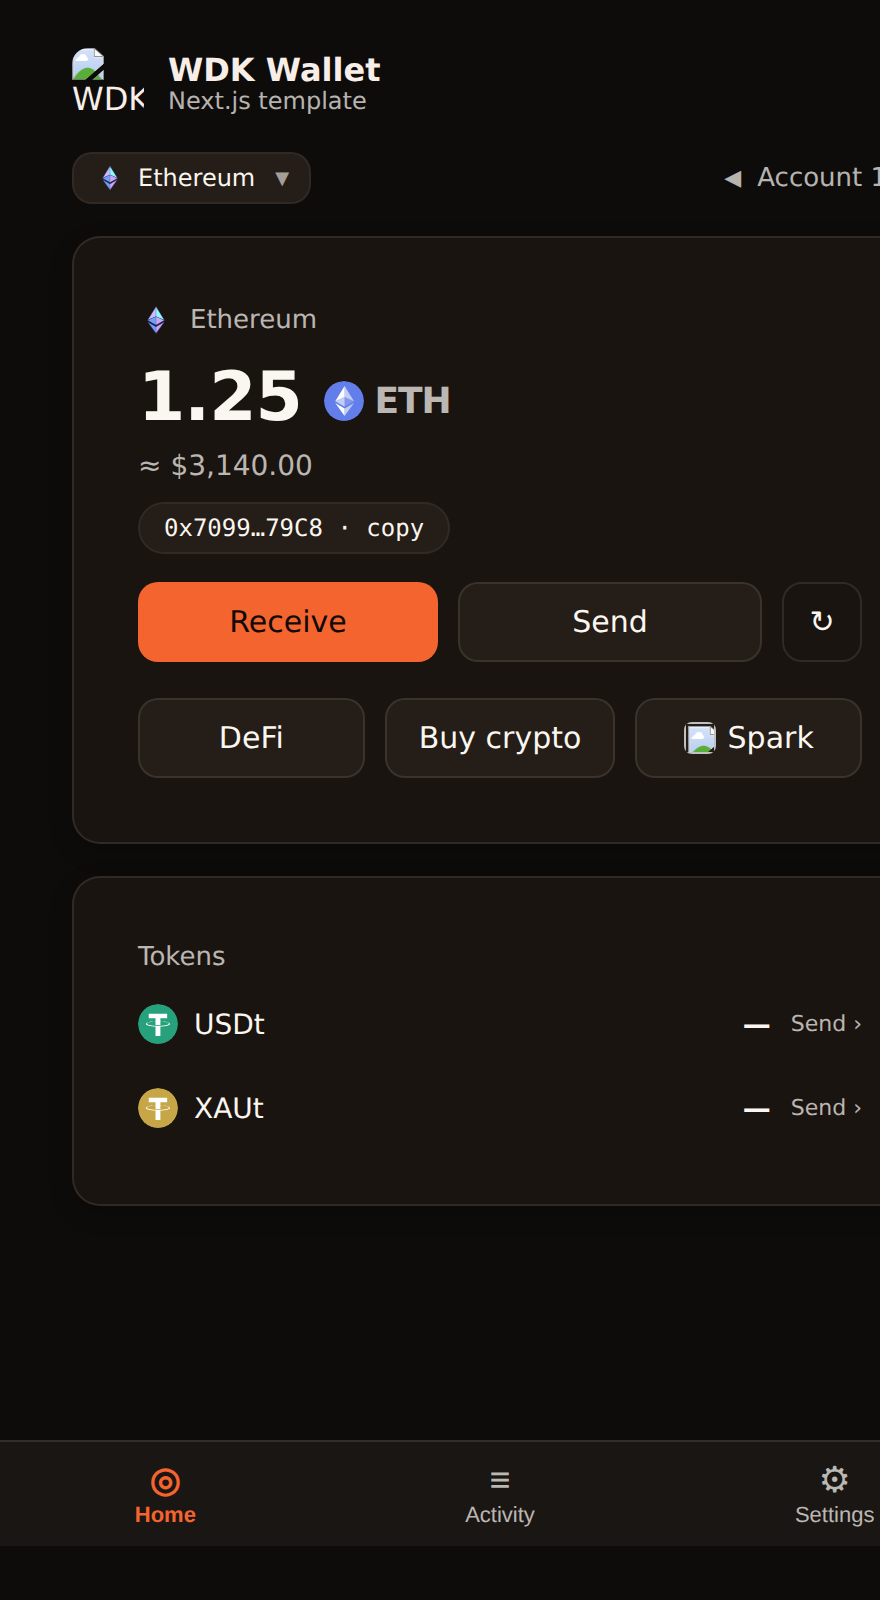
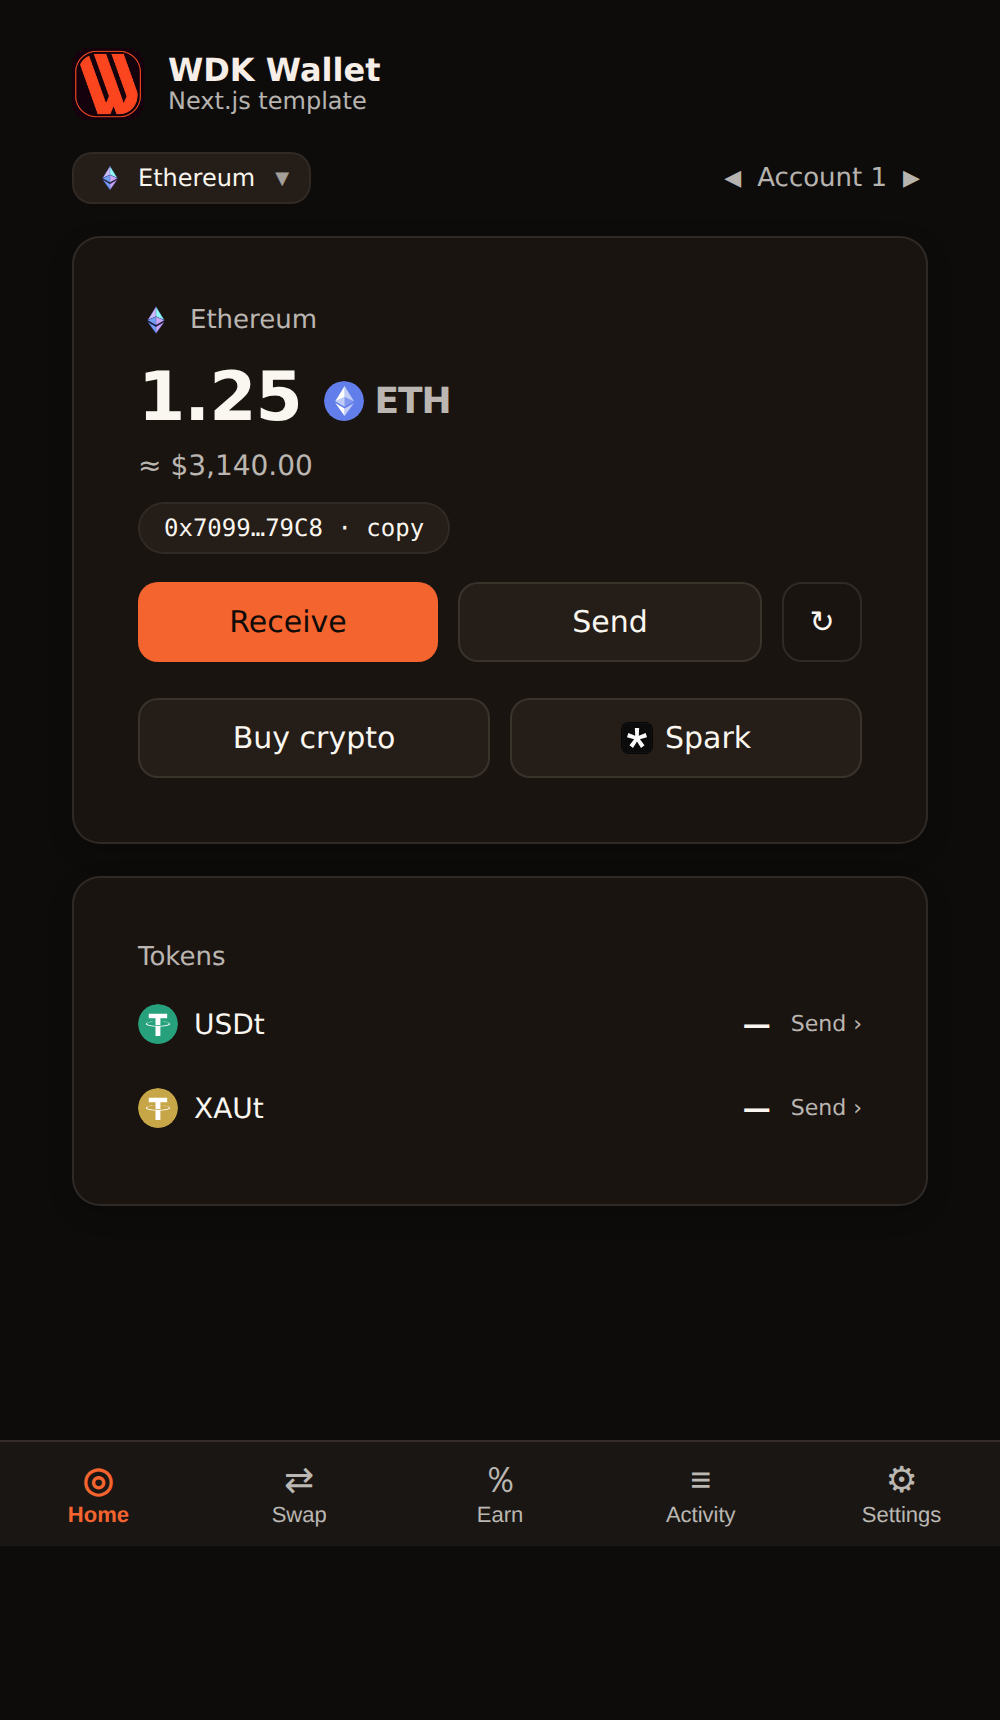
feat(template): dedicated Swap + Earn screens — retire the DeFi modal
Split the cramped DeFi dialog into first-class tab destinations on the
pro-wallet shell:

- defi-panels.tsx — extract the Aave-lend / Velora-swap / USDT0-bridge /
  gasless forms as shared, worklet-driven panels (one set of protocol
  wiring, no duplication across screens).
- swap-screen.tsx — Velora best-route swap on a shared Screen layout, with
  the gasless toggle when a bundler is configured; non-EVM chains get a
  clear note instead of a dead form.
- earn-screen.tsx — Lend (Aave V3) / Bridge (USDT0) / Gasless sub-tabs.
- screen.tsx — shared full-height tab-destination layout (title + subtitle).
- WalletShell — Home · Swap · Earn · Activity · Settings (5-tab IA); the
  Dashboard drops its DeFi launcher (now top-level), keeping Buy + Spark.
- Remove defi-dialog.tsx (retired).

Harness: replace the defi entry with swap/earn entries that mount the real
WalletShell at each tab; serve the app's public/ assets so the brand mark
and Spark logo render. Regenerate media/screenshots (home-shell, swap-screen,
earn-screen, buy-dialog); drop defi-dialog.png. Declare vite +
@user/plugin-react as apps/web devDeps so screenshots:build is
self-contained in a fresh checkout. README + ROADMAP updated.

Typecheck clean; 23 app specs pass.

Claude-Session: https://claude.ai/code/session_014BrvPNNzD1sk15DtxQzuih

diff --git a/apps/web/src/components/earn-screen.tsx b/apps/web/src/components/earn-screen.tsx
@@ -1,0 +1,53 @@
+'use client'
+
+/**
+ * EarnScreen — a dedicated "Earn" destination grouping the yield / portability
+ * flows that used to be crammed into the DeFi modal: Lend (Aave V3), Bridge
+ * (USDT0, Ethereum ⇄ Arbitrum), and the gasless smart account (ERC-4337). A
+ * light sub-tab strip switches between them; the gasless toggle rides above the
+ * Lend/Bridge forms when a bundler is configured. EVM-only.
+ */
+
+import { useState } from 'react'
+import { Button } from '@wdk-starter/wdk-ui'
+import { useWallet } from '@/wallet/wallet-provider'
+import { getChain } from '@/wallet/chains'
+import { Screen } from './screen'
+import { Lending, Bridge, Gasless, GaslessToggle, useGaslessAvailable, defiSupported, note } from './defi-panels'
+
+type SubTab = 'lend' | 'bridge' | 'gasless'
+const SUBTABS: readonly { id: SubTab, label: string }[] = [
+  { id: 'lend', label: 'Lend' },
+  { id: 'bridge', label: 'Bridge' },
+  { id: 'gasless', label: 'Gasless' }
+]
+
+export function EarnScreen (): React.JSX.Element {
+  const { chainId, accountIndex } = useWallet()
+  const gaslessAvailable = useGaslessAvailable()
+  const [gasless, setGasless] = useState(false)
+  const [sub, setSub] = useState<SubTab>('lend')
+  const supported = defiSupported(chainId)
+
+  if (!supported) {
+    return (
+      <Screen title="Earn" subtitle="Lend, bridge, and gasless smart-account flows.">
+        <p style={note}>Earn runs on EVM chains (Ethereum, Polygon, Arbitrum). The active network is {getChain(chainId).name} — switch to an EVM chain.</p>
+      </Screen>
+    )
+  }
+
+  return (
+    <Screen title="Earn" subtitle="Aave V3 lending, the USDT0 bridge, and the gasless smart account — all over the worklet.">
+      <div style={{ display: 'flex', gap: 6 }}>
+        {SUBTABS.map((t) => (
+          <Button key={t.id} size="sm" variant={sub === t.id ? 'primary' : 'secondary'} onClick={() => setSub(t.id)} style={{ flex: 1 }}>{t.label}</Button>
+        ))}
+      </div>
+      {gaslessAvailable && sub !== 'gasless' && <GaslessToggle gasless={gasless} onChange={setGasless} />}
+      {sub === 'lend' && <Lending chainId={chainId} accountIndex={accountIndex} gasless={gasless} />}
+      {sub === 'bridge' && <Bridge chainId={chainId} accountIndex={accountIndex} gasless={gasless} />}
+      {sub === 'gasless' && <Gasless chainId={chainId} accountIndex={accountIndex} />}
+    </Screen>
+  )
+}

diff --git a/apps/web/src/components/wallet-shell.tsx b/apps/web/src/components/wallet-shell.tsx
@@ -4,9 +4,10 @@
  * WalletShell — the navigable pro-wallet IA (PRD Phase 1 cornerstone).
  *
  * Replaces the single-page "modal soup" with a real tab shell: Home (balance +
- * tokens + action cluster), Activity (history), and Settings (appearance,
- * security, account). The heavy flows (receive/send/buy/DeFi/spark) stay as the
- * Home action launchers; Activity and Settings become first-class destinations.
+ * tokens + action cluster), Swap (Velora), Earn (Aave lend / USDT0 bridge /
+ * gasless), Activity (history), and Settings (appearance, security, account).
+ * The dedicated Swap/Earn destinations retire the old cramped DeFi modal; the
+ * remaining heavy flows (receive/send/buy/spark) stay as Home action launchers.
  * Built on the shared wdk-ui TabBar so the extension popup can adopt the same IA.
  */
 
@@ -15,19 +16,24 @@ import { Button, Card, TabBar, type TabItem } from '@wdk-starter/wdk-ui'
 import { useWallet } from '@/wallet/wallet-provider'
 import { Dashboard } from './dashboard'
 import { Activity } from './activity'
+import { Screen } from './screen'
+import { SwapScreen } from './swap-screen'
+import { EarnScreen } from './earn-screen'
 import { AppearanceDialog } from './appearance-dialog'
 import { useAppearance } from './appearance-provider'
 
-type TabId = 'home' | 'activity' | 'settings'
+type TabId = 'home' | 'swap' | 'earn' | 'activity' | 'settings'
 
 const TABS: readonly TabItem[] = [
   { id: 'home', label: 'Home', icon: '◎' },
+  { id: 'swap', label: 'Swap', icon: '⇄' },
+  { id: 'earn', label: 'Earn', icon: '％' },
   { id: 'activity', label: 'Activity', icon: '≡' },
-  { id: 'settings', label: 'Settings', icon: '⚙' },
+  { id: 'settings', label: 'Settings', icon: '⚙' }
 ]
 
-export function WalletShell (): React.JSX.Element {
-  const [tab, setTab] = useState<TabId>('home')
+export function WalletShell ({ initialTab = 'home' }: { initialTab?: TabId } = {}): React.JSX.Element {
+  const [tab, setTab] = useState<TabId>(initialTab)
   const { open: appearanceOpen } = useAppearance()
 
   return (
@@ -35,7 +41,9 @@ export function WalletShell (): React.JSX.Element {
       <div style={{ flex: 1, display: 'flex', justifyContent: 'center', overflowY: 'auto' }}>
         <div style={{ width: '100%', maxWidth: 460 }}>
           {tab === 'home' && <Dashboard />}
-          {tab === 'activity' && <TabPanel title="Activity"><Activity /></TabPanel>}
+          {tab === 'swap' && <SwapScreen />}
+          {tab === 'earn' && <EarnScreen />}
+          {tab === 'activity' && <Screen title="Activity"><Activity /></Screen>}
           {tab === 'settings' && <SettingsTab />}
         </div>
       </div>
@@ -45,20 +53,11 @@ export function WalletShell (): React.JSX.Element {
   )
 }
 
-function TabPanel ({ title, children }: { title: string, children: React.ReactNode }): React.JSX.Element {
-  return (
-    <main style={{ display: 'flex', flexDirection: 'column', padding: '24px 16px', gap: 16 }}>
-      <h1 style={{ fontSize: 20, fontWeight: 600, margin: 0 }}>{title}</h1>
-      {children}
-    </main>
-  )
-}
-
 function SettingsTab (): React.JSX.Element {
   const { address, accountIndex, lock } = useWallet()
   const { setOpen: setAppearanceOpen } = useAppearance()
   return (
-    <TabPanel title="Settings">
+    <Screen title="Settings">
       <Card padding="lg" variant="elevated" style={{ display: 'flex', flexDirection: 'column', gap: 12 }}>
         <Row label="Account" value={`Account ${accountIndex + 1}`} />
         {address && <Row label="Address" value={`${address.slice(0, 6)}…${address.slice(-4)}`} mono />}
@@ -68,7 +67,7 @@ function SettingsTab (): React.JSX.Element {
       <p style={{ textAlign: 'center', fontSize: 12, color: 'var(--text-secondary, #b3a79f)' }}>
         Self-custodial · keys never leave the worklet · built on Tether WDK
       </p>
-    </TabPanel>
+    </Screen>
   )
 }
 

diff --git a/apps/web/src/components/swap-screen.tsx b/apps/web/src/components/swap-screen.tsx
@@ -1,0 +1,35 @@
+'use client'
+
+/**
+ * SwapScreen — a dedicated, full-height Swap destination (Velora best-route DEX
+ * aggregation) in the tab shell, replacing the cramped DeFi modal's swap tab.
+ * Pulls the active chain + account from the wallet and offers the gasless smart
+ * account when the ERC-4337 bundler is configured. EVM-only — non-EVM /
+ * unsupported chains get a clear note instead of a dead form.
+ */
+
+import { useState } from 'react'
+import { useWallet } from '@/wallet/wallet-provider'
+import { getChain } from '@/wallet/chains'
+import { Screen } from './screen'
+import { Swap, GaslessToggle, useGaslessAvailable, defiSupported, note } from './defi-panels'
+
+export function SwapScreen (): React.JSX.Element {
+  const { chainId, accountIndex } = useWallet()
+  const gaslessAvailable = useGaslessAvailable()
+  const [gasless, setGasless] = useState(false)
+  const supported = defiSupported(chainId)
+
+  return (
+    <Screen title="Swap" subtitle="Swap tokens via Velora — best-route DEX aggregation, executed inside the worklet.">
+      {!supported
+        ? <p style={note}>Swaps run on EVM chains (Ethereum, Polygon, Arbitrum). The active network is {getChain(chainId).name} — switch to an EVM chain to swap.</p>
+        : (
+          <>
+            {gaslessAvailable && <GaslessToggle gasless={gasless} onChange={setGasless} />}
+            <Swap chainId={chainId} accountIndex={accountIndex} gasless={gasless} />
+          </>
+        )}
+    </Screen>
+  )
+}

diff --git a/apps/web/src/components/screen.tsx b/apps/web/src/components/screen.tsx
@@ -1,0 +1,19 @@
+'use client'
+
+/**
+ * Screen — the shared full-height layout for a tab destination in the wallet
+ * shell (title + optional subtitle + body). Swap / Earn / Activity / Settings
+ * all sit on it so the pro-wallet IA reads consistently. Pure presentation.
+ */
+
+export function Screen ({ title, subtitle, children }: { title: string, subtitle?: string, children: React.ReactNode }): React.JSX.Element {
+  return (
+    <main style={{ display: 'flex', flexDirection: 'column', padding: '24px 16px', gap: 16 }}>
+      <div>
+        <h1 style={{ fontSize: 20, fontWeight: 600, margin: 0 }}>{title}</h1>
+        {subtitle && <p style={{ margin: '6px 0 0', fontSize: 13, color: 'var(--text-secondary, #b3a79f)' }}>{subtitle}</p>}
+      </div>
+      {children}
+    </main>
+  )
+}

diff --git a/apps/web/src/components/dashboard.tsx b/apps/web/src/components/dashboard.tsx
@@ -9,7 +9,6 @@ import { BrandHeader } from './brand-header'
 import { ReceiveDialog } from './receive-dialog'
 import { SendDialog } from './send-dialog'
 import { TokenList } from './token-list'
-import { DefiDialog } from './defi-dialog'
 import { BuyDialog } from './buy-dialog'
 import { SparkDialog } from './spark-dialog'
 
@@ -24,7 +23,7 @@ export function Dashboard () {
     chainId, setChainId, accountIndex, setAccountIndex,
     address, addressLoading, balance, balanceLoading, usdValue, refreshBalance
   } = useWallet()
-  const [dialog, setDialog] = useState<'none' | 'receive' | 'send' | 'defi' | 'buy' | 'spark'>('none')
+  const [dialog, setDialog] = useState<'none' | 'receive' | 'send' | 'buy' | 'spark'>('none')
   /** When set, the Send dialog sends this ERC-20 token instead of the native asset. */
   const [sendToken, setSendToken] = useState<TokenInfo | null>(null)
   const [copied, setCopied] = useState(false)
@@ -69,11 +68,6 @@ export function Dashboard () {
             <Button onClick={() => void refreshBalance()} variant="outline" size="icon" title="Refresh">↻</Button>
           </div>
           <div style={{ display: 'flex', gap: 10, marginTop: 8 }}>
-            {familyOf(chainId) === 'evm' && (
-              <Button onClick={() => setDialog('defi')} variant="secondary" disabled={!address} style={{ flex: 1 }}>
-                DeFi
-              </Button>
-            )}
             <Button onClick={() => setDialog('buy')} variant="secondary" disabled={!address} style={{ flex: 1 }}>
               Buy crypto
             </Button>
@@ -92,7 +86,6 @@ export function Dashboard () {
 
       {dialog === 'receive' && address && <ReceiveDialog address={address} chainId={chainId} onClose={() => setDialog('none')} />}
       {dialog === 'send' && address && <SendDialog chainId={chainId} token={sendToken} onClose={() => setDialog('none')} />}
-      {dialog === 'defi' && address && <DefiDialog chainId={chainId} accountIndex={accountIndex} onClose={() => setDialog('none')} />}
       {dialog === 'buy' && address && <BuyDialog chainId={chainId} address={address} onClose={() => setDialog('none')} />}
       {dialog === 'spark' && address && <SparkDialog accountIndex={accountIndex} onClose={() => setDialog('none')} />}
     </main>

diff --git a/apps/web/screenshots/earn-entry.tsx b/apps/web/screenshots/earn-entry.tsx
@@ -1,0 +1,7 @@
+import { createRoot } from 'react-dom/client';
+import '@/app/globals.css';
+import { AppearanceProvider } from '@/components/appearance-provider';
+import { WalletShell } from '@/components/wallet-shell';
+createRoot(document.getElementById('root')!).render(
+  <AppearanceProvider><WalletShell initialTab="earn" /></AppearanceProvider>,
+);

diff --git a/apps/web/screenshots/swap-entry.tsx b/apps/web/screenshots/swap-entry.tsx
@@ -1,0 +1,7 @@
+import { createRoot } from 'react-dom/client';
+import '@/app/globals.css';
+import { AppearanceProvider } from '@/components/appearance-provider';
+import { WalletShell } from '@/components/wallet-shell';
+createRoot(document.getElementById('root')!).render(
+  <AppearanceProvider><WalletShell initialTab="swap" /></AppearanceProvider>,
+);

diff --git a/apps/web/screenshots/vite.config.ts b/apps/web/screenshots/vite.config.ts
@@ -4,6 +4,9 @@ import { fileURLToPath } from 'node:url';
 const here = (p: string) => fileURLToPath(new URL(p, import.meta.url));
 export default defineConfig({
   root: here('.'),
+  // Serve the app's real public/ assets (spark.svg, icons) so harness captures
+  // match the running app instead of showing broken-image glyphs.
+  publicDir: here('../public'),
   plugins: [react()],
   resolve: {
     alias: [
@@ -12,5 +15,5 @@ export default defineConfig({
       { find: '@', replacement: here('../src') },
     ],
   },
-  build: { outDir: here('./dist'), emptyOutDir: true, rollupOptions: { input: { defi: here('./defi.html'), buy: here('./buy.html'), shell: here('./shell.html') } } },
+  build: { outDir: here('./dist'), emptyOutDir: true, rollupOptions: { input: { swap: here('./swap.html'), earn: here('./earn.html'), buy: here('./buy.html'), shell: here('./shell.html') } } },
 });

diff --git a/apps/web/screenshots/earn.html b/apps/web/screenshots/earn.html
@@ -1,0 +1,2 @@
+<!doctype html><html><head><meta charset="utf-8"><title>Earn</title></head>
+<body><div id="root"></div><script type="module" src="./earn-entry.tsx"></script></body></html>

diff --git a/apps/web/screenshots/swap.html b/apps/web/screenshots/swap.html
@@ -1,0 +1,2 @@
+<!doctype html><html><head><meta charset="utf-8"><title>Swap</title></head>
+<body><div id="root"></div><script type="module" src="./swap-entry.tsx"></script></body></html>

diff --git a/ROADMAP.md b/ROADMAP.md
@@ -97,12 +97,13 @@ advance together.
   (`ThemePicker`, `BrandPicker`, `useThemePicker`, `useBrandPicker`,
   `useCustomPrimary`) into the app, with an any-hex primary override — all
   persisted to localStorage. Code-level theming still works (see `docs/CUSTOMIZATION.md`).
-- ✅ **Capture screenshots** of the DeFi dialog (Lend/Swap/Bridge/Gasless) + Buy —
-  done via a reusable component-render harness (`apps/web/screenshots/`,
-  `pnpm screenshots:build`) that mounts the real worklet-coupled dialogs with the
-  client/provider stubbed and the app's own dark theme; captured to
-  `media/screenshots/{defi-dialog,buy-dialog}.png` and shown in the README. No
-  running wallet / RPC needed.
+- ✅ **Capture screenshots** of the real wallet surfaces (Home shell, Swap, Earn,
+  Buy) — done via a reusable component-render harness (`apps/web/screenshots/`,
+  `pnpm screenshots:build`) that mounts the real worklet-coupled `WalletShell` /
+  dialogs with the client/provider stubbed, the app's own dark theme, and the
+  real `public/` brand + token assets; captured to
+  `media/screenshots/{home-shell,swap-screen,earn-screen,buy-dialog}.png` and
+  shown in the README. No running wallet / RPC needed.
 
 
 ## Security / dependency follow-ups
@@ -127,7 +128,13 @@ on the already-pro engine. Phase 1 cornerstone shipped; the rest is incremental.
   selector (DeFi Lend/Swap/Bridge, Buy); the dashboard token rows + balance card
   already show real marks. Ready for any token.
 - ✅ **Navigation shell (Phase 1)** — the single-page "modal soup" is now a real
-  tabbed IA: a shared `wdk-ui` `TabBar` primitive drives a **Home · Activity ·
-  Settings** `WalletShell`. Home keeps the balance + token list + action cluster;
-  Activity and Settings are first-class destinations. (Next: dedicated Swap /
-  Earn / Bridge screens, AmountInput, ReviewSheet/SuccessScreen, asset detail.)
+  tabbed IA: a shared `wdk-ui` `TabBar` primitive drives a **Home · Swap · Earn ·
+  Activity · Settings** `WalletShell`. Home keeps the balance + token list +
+  action cluster; Swap/Earn/Activity/Settings are first-class destinations.
+- ✅ **Dedicated Swap / Earn screens** — the cramped DeFi modal is retired. Swap
+  (Velora best-route) and Earn (Aave V3 lend · USDT0 bridge · gasless smart
+  account) are now full tab destinations on a shared `Screen` layout, sharing one
+  set of protocol wiring (`defi-panels.tsx`) with no duplication. The gasless
+  toggle rides above the forms when a bundler is configured; non-EVM chains get a
+  clear note instead of a dead form. (Next: AmountInput with fiat⇄crypto + Max,
+  ReviewSheet/SuccessScreen, real Send flow, asset detail.)

diff --git a/apps/web/screenshots/README.md b/apps/web/screenshots/README.md
@@ -1,18 +1,20 @@
 # Component screenshot harness
 
-Renders the real, worklet-coupled dashboard dialogs in isolation so their
-imagery can be regenerated without a running wallet (the worklet client +
-provider are stubbed; the dark theme comes from the app's own `globals.css`).
+Renders the real, worklet-coupled wallet surfaces in isolation so their imagery
+can be regenerated without a running wallet (the worklet client + provider are
+stubbed; the dark theme comes from the app's own `globals.css`).
 
 ```bash
 # from apps/web
 pnpm screenshots:build            # vite-build the harness → screenshots/dist
 npx http-server screenshots/dist  # or any static server
-# then headless-capture screenshots/dist/{defi,buy}.html
+# then headless-capture screenshots/dist/{swap,earn,buy,shell}.html
 ```
 
 - `stubs/` — `getWalletApi()` (async no-ops) + `useWallet()` (a benign context).
-- `defi-entry.tsx` / `buy-entry.tsx` mount `<DefiDialog>` / `<BuyDialog>`.
+- `shell-entry.tsx` / `swap-entry.tsx` / `earn-entry.tsx` mount the real
+  `<WalletShell>` at the Home / Swap / Earn tab; `buy-entry.tsx` mounts
+  `<BuyDialog>`.
 - `vite.config.ts` aliases `@/wallet/wallet-client` + `@/wallet/wallet-provider`
   to the stubs and `@` to `../src`.
 